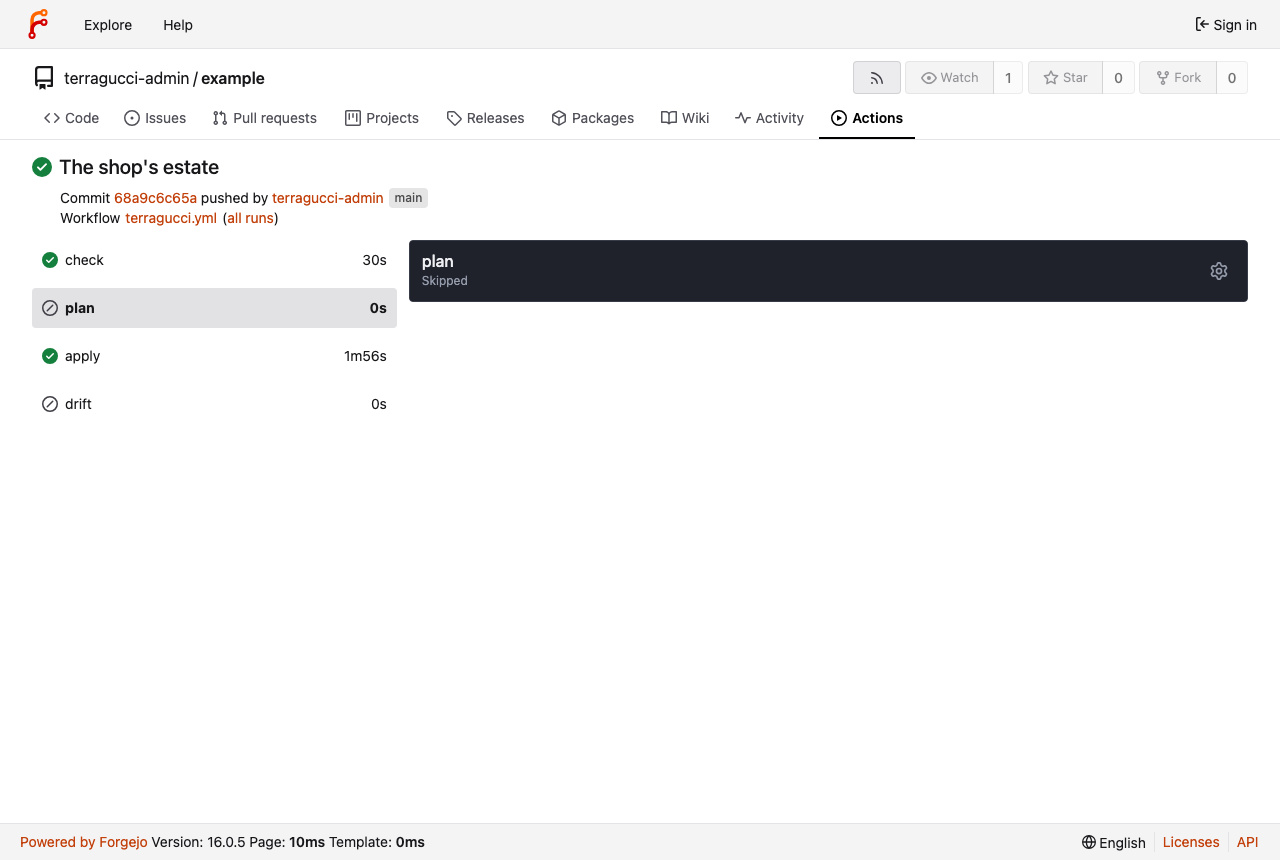
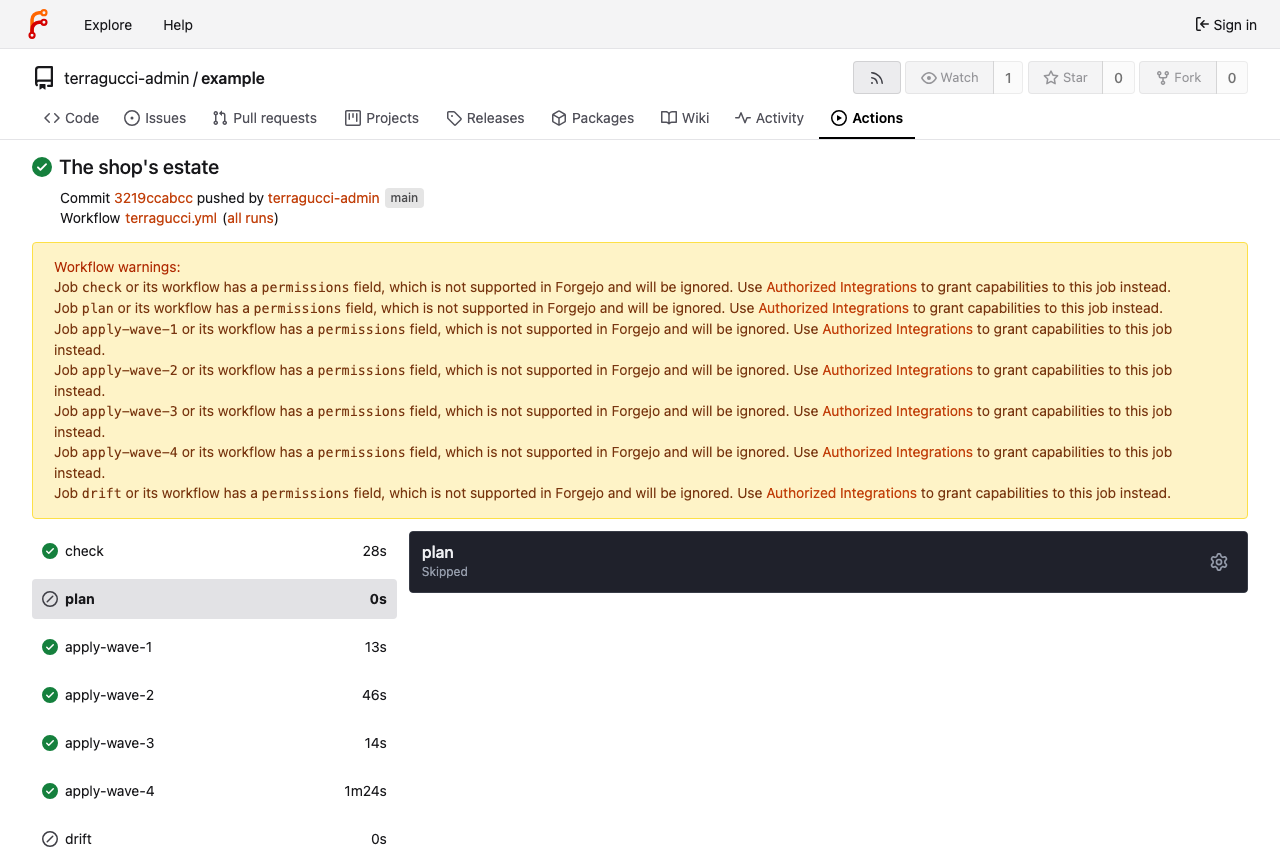
Test phase: a ledger fix, claim fixes, refreshed captures and the measured verdicts (#82)
* test: expectations for gated waves, Forgejo permissions and the drift response; the examples regenerated; approval docs rewritten

* fix(apply): the gate ledger ends each record with a newline, so an appended line stays its own record; claims fixed and verdicts recorded

- waves: read the whole log, so grep -q under pipefail cannot fail a match
- reconcile: in-line is set up with the control repo's settings, token_env included
- smoke.json: the verdicts measured 2026-10-04, captures refreshed

diff --git a/packages/terragucci/test/pipeline.test.ts b/packages/terragucci/test/pipeline.test.ts
@@ -115,9 +115,11 @@ describe("credentials", () => {
     expect(never.jobs["apply-wave-1"].permissions.contents).toBe("read");
   });
 
-  it("forgejo: the runner ignores permissions, so the dialect drops them and the token comes from the runner's own OIDC endpoint", () => {
+  it("forgejo: the jobs that assume a role ask for id-token: write, and the token comes from the runner's OIDC endpoint", () => {
     const text = render("forgejo", OIDC);
-    expect(text).not.toMatch(/permissions:/);
+    const doc = body(text);
+    expect(doc.jobs.plan.permissions["id-token"]).toBe("write");
+    expect(doc.jobs["apply-wave-1"].permissions["id-token"]).toBe("write");
     expect(text).toContain("tg oidc");
   });
 
@@ -523,14 +525,14 @@ describe("the drift stage", () => {
     const run = doc.jobs.drift.steps.map((s: any) => s.run).filter(Boolean).join("\n");
     expect(run).toContain("terragucci stage tf-drift");
     expect(run).toContain("--forge " + forge);
-    // It reads; nothing in it applies.
-    expect(run).not.toMatch(/\bapply\b/);
+    // It reads; nothing in it applies. The drift response's apply mode opens a pull request.
+    expect(run.replace("respond drift --mode apply", "respond drift")).not.toMatch(/\bapply\b/);
   });
 
-  it("github: drift can write issues and nothing else, and takes the read-only role", () => {
+  it("github: drift writes its issue and its pull request, and takes the read-only role", () => {
     const text = withDrift("github", OIDC);
     const drift = body(text).jobs.drift;
-    expect(drift.permissions).toEqual({ contents: "read", issues: "write", "id-token": "write" });
+    expect(drift.permissions).toEqual({ contents: "write", issues: "write", "pull-requests": "write", "id-token": "write" });
     const run = drift.steps.map((s: any) => s.run).filter(Boolean).join("\n");
     expect(run).toContain(OIDC.plan_role);
     expect(run).not.toContain(OIDC.apply_role);

diff --git a/packages/terragucci/test/apply.test.ts b/packages/terragucci/test/apply.test.ts
@@ -129,6 +129,17 @@ describe("a wave behind its gate", () => {
     expect(parseLedger(git(origin, "show", "chant/lifecycle:_gates/tf-apply.jsonl")).pending).toHaveLength(1);
   });
 
+  it("ends the ledger with a newline, so a line another writer appends stays its own record", async () => {
+    const { work, origin, bin } = setup();
+    vi.spyOn(console, "log").mockImplementation(() => {});
+    expect(await applyWave(work, { wave: 1, layers: [["a"]], binary: bin, gate: "always", env: {}, now: T(1) })).toBe(3);
+    const text = execFileSync("git", ["-C", origin, "show", "chant/lifecycle:_gates/tf-apply.jsonl"], { encoding: "utf-8" });
+    expect(text.endsWith("}\n")).toBe(true);
+    const appended = `${text}${JSON.stringify({ version: 1, kind: "resolution", op: "tf-apply", gate: "wave-1", resolvedBy: "someone", timestamp: T(2) })}\n`;
+    expect(parseLedger(appended).resolutions).toHaveLength(1);
+    expect(parseLedger(appended).pending).toHaveLength(1);
+  });
+
   it("a wave refused for a moved plan writes the approved and current reports, and respond wave-refused names the root and attribute that moved", async () => {
     const { work, origin, bin, log } = setup();
     vi.spyOn(console, "log").mockImplementation(() => {});

diff --git a/packages/terragucci/test/bundle.test.ts b/packages/terragucci/test/bundle.test.ts
@@ -21,11 +21,11 @@ function runIn(cwd: string, bin: string, ...args: string[]) {
 }
 
 describe.skipIf(!existsSync(DIST))("the bundle", () => {
-  it("init in the example with only its drift schedule in terragucci.yml writes the example's own pipeline", () => {
+  it("init in the example with only its drift schedule and canary wave in terragucci.yml writes the example's own pipeline", () => {
     const repo = tmp();
     cpSync(EXAMPLE, repo, { recursive: true });
-    // Everything else is found from the repo. A schedule cannot be, so it is the one line kept.
-    writeFileSync(join(repo, "terragucci.yml"), 'drift: "0 6 * * *"\n');
+    // Everything else is found from the repo. A schedule and the canary wave are choices it cannot show, so they are kept.
+    writeFileSync(join(repo, "terragucci.yml"), 'drift: "0 6 * * *"\nwaves:\n  canary: ["envs/dev/*"]\n');
     const r = runIn(repo, isolated(), "init");
     expect(r.status, r.stderr).toBe(0);
     expect(r.stdout).toContain("unchanged .forgejo/workflows/terragucci.yml");

diff --git a/packages/terragucci/src/apply.ts b/packages/terragucci/src/apply.ts
@@ -213,7 +213,8 @@ export function appendPending(repo: string, record: PendingRecord, files: Record
     const exists = fetchLifecycle(repo);
     const parent = exists ? git(repo, ["rev-parse", REMOTE_REF]).stdout.trim() : "";
     const old = exists ? git(repo, ["show", `${REMOTE_REF}:${LEDGER_PATH}`]) : undefined;
-    const text = old && old.status === 0 && old.stdout.trim() ? `${old.stdout.replace(/\n$/, "")}\n${line}` : line;
+    // One record per line, each ending in a newline, so a line appended with `>>` stays its own record.
+    const text = `${old && old.status === 0 && old.stdout.trim() ? `${old.stdout.replace(/\n$/, "")}\n` : ""}${line}\n`;
     const blob = git(repo, ["hash-object", "-w", "--stdin"], text).stdout.trim();
     // A scratch index, so the checkout's own index is left alone.
     const scratch = mkdtempSync(join(tmpdir(), "terragucci-ledger-"));

diff --git a/packages/terragucci/test/images.test.ts b/packages/terragucci/test/images.test.ts
@@ -46,7 +46,7 @@ describe("images", () => {
     const r = await init(dir, { binary: "tofu" });
     const text = readFileSync(r.files[0].path, "utf-8");
     expect(r.version).toEqual({ value: "1.12.0", reason: "required_version" });
-    expect(text.split('dir="$(terragucci install tofu 1.12.0)"').length - 1).toBe(3);
+    expect(text.split('dir="$(terragucci install tofu 1.12.0)"').length - 1).toBe(text.split(/^\s+(?:after_)?script:/m).length - 1);
     expect(text).toContain('export PATH="$dir:$PATH"');
   });
 });

diff --git a/packages/terragucci/test/init.test.ts b/packages/terragucci/test/init.test.ts
@@ -101,7 +101,7 @@ describe("init", () => {
       schema: 1,
       minReader: "0.102.0",
       members: [],
-      identity: { gates: { "wave-1": {}, "wave-2": {}, "wave-3": {} } },
+      identity: { gates: { "wave-1": {}, "wave-2": {} } },
     });
   });
 

diff --git a/docs-site/src/content/docs/guides/approve-a-wave.md b/docs-site/src/content/docs/guides/approve-a-wave.md
@@ -12,21 +12,21 @@ One wave applied, with an approval recorded in your repo that names the exact pl
 - A merge that reached the default branch, so `tf-apply` has started.
 - `gate` set to `on-destroy` (the default) or `always`. With `never`, no wave waits. [Gate policy](/terragucci/reference/stages/#gate-policy) lists the three.
 - chant installed where you approve: `npm i -D @intentius/chant`.
-- Write access to the repo. The approval is a commit on its `chant/lifecycle` branch.
+- Write access to the repo. What you record is a commit on its `chant/lifecycle` branch.
 - An ssh key of yours listed in `.chant/allowed_signers` on the default branch. [Set up the signers file](#set-up-the-signers-file) once per repo.
-- You are a person. Approvals belong to people, so an agent or a script that approves on your behalf defeats the gate.
+- You are a person. A gate exists so that someone reads the plans; anything that signs off for you defeats it.
 
 ## Steps
 
 ### 1. Find the waiting wave
 
-After a merge, the apply job applies each wave in turn. A wave that needs an approval stops the job with exit code 3 and prints the command to run. The pull request's plan note shows the same command at its foot, for example:
+After a merge, each wave runs in its own job. A wave that has to wait for you stops its job with exit code 3 and prints the command to run. The pull request's plan note shows the same command at its foot, for example:
 
 ```text
 approve wave 2 with chant approve tf-apply wave-2 --sign
 ```
 
-Open the wave's roots in the report linked from the run. The report lists the wave's set digest and the approval state of each wave.
+Open the wave's roots in the report linked from the run. It lists the wave's set digest and whether each wave is waiting or cleared.
 
 ### 2. Read what the wave will do
 
@@ -40,15 +40,15 @@ npx chant approve tf-apply wave-2 --actor github:alice --sign ~/.ssh/id_ed25519
 
 `--actor` is you, named as the signers file names you. `--sign` seals the approval with your key. With no key file, it uses git's `user.signingkey` when `gpg.format` is `ssh`.
 
-The command writes a record to the `chant/lifecycle` branch. The record names the wave's set digest, a hash over the plan digest of every root in it. The approval covers those plans and no others, and the seal covers the record: an edited record no longer verifies.
+The command writes a record that names the wave's set digest, a hash over the plan digest of every root in it. Your sign-off covers those plans and no others, and the seal covers the record, so an edited record no longer verifies.
 
-`terragucci init` lists every wave's gate under `identity.gates` in `chant.workspace.json`, so the apply job counts an approval only when its seal verifies against `.chant/allowed_signers` as the default branch holds it. An unsigned approval, or one sealed with a key the file does not list for its approver, does not let the wave apply. The job prints why the approval does not count.
+`terragucci init` lists every wave's gate under `identity.gates` in `chant.workspace.json`. For those gates the job accepts a record only when its seal verifies against `.chant/allowed_signers` on the default branch. Without such a seal the wave stays put, and the job prints why.
 
 ### 4. Run the stage again
 
-Re-run the apply job from your forge, or push to the default branch. The stage finds the approval and applies the wave. It starts from where it stopped and never applies a root twice. If a later wave also needs an approval, the job stops again at exit code 3 with the next command.
+Re-run the wave's job on your forge, or push to the default branch again. The stage finds your record and the wave goes out. It starts where it stopped and never touches a root twice. A later wave that also has to wait stops at exit code 3 with its own command.
 
-The report now links each wave to its approval record.
+The report now links each cleared wave to its record.
 
 ## Set up the signers file
 
@@ -61,11 +61,11 @@ Once per repo, through a reviewed pull request to the default branch:
    github:bob ssh-rsa AAAAB3NzaC1yc2EAAAADAQABAAABgQ...
    ```
 
-   The apply job checks Ed25519 keys, Ed25519 security keys (`sk-ssh-ed25519@openssh.com`) and RSA keys. A line with `valid-after`, `valid-before` or `cert-authority`, or a principal pattern, is ignored.
+   Ed25519 keys, including security keys (`sk-ssh-ed25519@openssh.com`), and RSA keys are checked. Lines with options or principal patterns are ignored.
 
-2. Never list an agent's key, a CI job's key or a bot's key. The file says who may approve, and approvals belong to people.
+2. List people only. No key that an agent or a CI job holds belongs in the file.
 
-3. Protect the `chant/lifecycle` branch so that only the apply job's identity can push to it, and block force pushes and deletion. The apply job writes the pending records there. A seal stops a forged approval from counting, and branch protection stops the records from being rewritten or removed.
+3. Protect `chant/lifecycle` so that only the apply job's identity can push to it, and block force pushes and deletion. The job writes its pending records there. A seal stops a forged record from counting, and protection stops records from being rewritten or removed.
 
 The signers file and `chant.workspace.json` are read from the default branch, so a pull request cannot loosen the rule that judges it.
 

diff --git a/docs-site/src/content/docs/concepts/approvals-as-records.md b/docs-site/src/content/docs/concepts/approvals-as-records.md
@@ -11,11 +11,11 @@ A record names the stage, the wave and the wave's set digest, the hash over the 
 
 ## Why a branch
 
-An approval is a commit, so it has an author and a time. You read it with `git log`. It lives with the code and outlasts a change of CI tool. Branch protection on `chant/lifecycle` decides who may write approvals, using permissions you already manage. Every runtime reads the same branch, so an approval recorded from a laptop also counts in forge CI and on a fountain steward.
+Each approval is a commit, and `git log` shows who made it and when. It lives with the code and outlasts a change of CI tool. Branch protection on `chant/lifecycle` decides who may write to it, using permissions you already manage. Every runtime reads that one branch, so an approval recorded from a laptop counts wherever the apply runs.
 
 ## Why it is sealed
 
-Anything that can push to `chant/lifecycle` can write a line that names a person. So an approval is sealed: `chant approve --sign` signs it with the approver's ssh key, over the stage, the wave, the set digest, the approver and the time. `terragucci init` lists every wave's gate under `identity.gates` in `chant.workspace.json`, and for a gate listed there the apply job counts an approval only when its seal verifies against `.chant/allowed_signers` on the default branch. An unsigned line, a line sealed with a key the file does not list for that person, and a line edited after sealing all count for nothing.
+Anything that can push to `chant/lifecycle` can write a line that names a person. So an approval is sealed: `chant approve --sign` signs the whole record with the approver's ssh key. `terragucci init` lists every wave's gate under `identity.gates` in `chant.workspace.json`, and for a gate listed there the apply job counts an approval only when its seal verifies against `.chant/allowed_signers` on the default branch. A line without a valid seal from a listed key counts for nothing, and so does a line edited after it was sealed.
 
 Two rules keep this sound. Agent keys never go in the signers file. And `chant/lifecycle` is a protected branch that only the apply job's identity may push to, with force pushes and deletion blocked.
 
